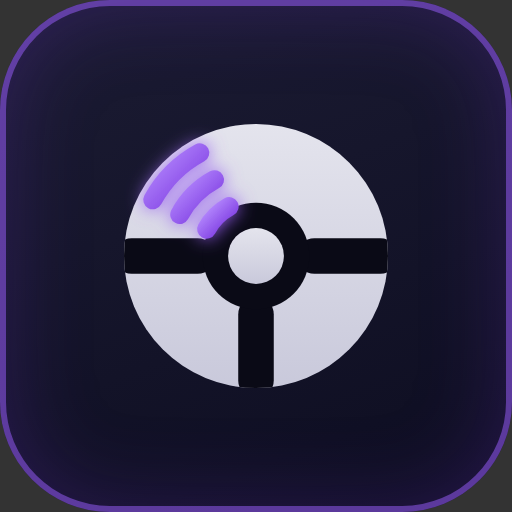
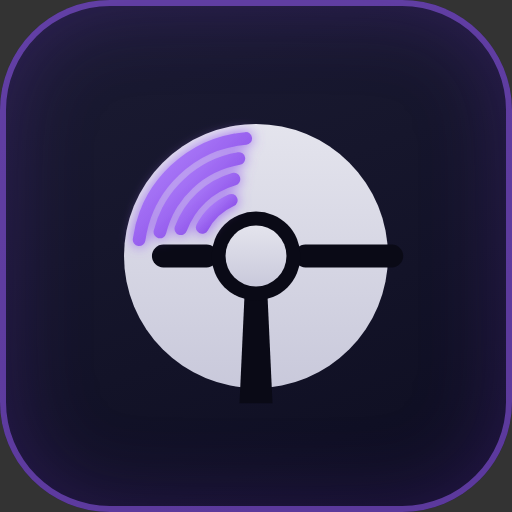
Promo kit v2: mark redrawn to the new reference, After Hours equalizer shot added
Claude-Session: https://claude.ai/code/session_01QfXMCYhSHowDeZKzYgKa2H

Changed region(s): [[0.2188, 0.25, 0.75, 0.75]]

diff --git a/store-assets/compose.html b/store-assets/compose.html
@@ -88,6 +88,13 @@
 <!-- Reusable mark: disc + steering spokes + violet sound arcs -->
 <script>
 function markSVG(size){
+  // Sweeping sound-arc: from lower-left round to the top, like the reference.
+  const A = (r, a1, a2) => {
+    const d = x => x * Math.PI / 180;
+    const x1 = (r * Math.cos(d(a1))).toFixed(1), y1 = (r * Math.sin(d(a1))).toFixed(1);
+    const x2 = (r * Math.cos(d(a2))).toFixed(1), y2 = (r * Math.sin(d(a2))).toFixed(1);
+    return `M ${x1} ${y1} A ${r} ${r} 0 0 1 ${x2} ${y2}`;
+  };
   return `
   <svg width="${size}" height="${size}" viewBox="-130 -130 260 260" xmlns="http://www.w3.org/2000/svg">
     <defs>
@@ -98,23 +105,23 @@ function markSVG(size){
         <stop offset="0" stop-color="#B78CFF"/><stop offset="1" stop-color="#7B38E0"/>
       </linearGradient>
       <filter id="glow" x="-60%" y="-60%" width="220%" height="220%">
-        <feGaussianBlur stdDeviation="7" result="b"/>
+        <feGaussianBlur stdDeviation="5" result="b"/>
         <feMerge><feMergeNode in="b"/><feMergeNode in="SourceGraphic"/></feMerge>
       </filter>
-      <clipPath id="discClip"><circle r="104"/></clipPath>
     </defs>
     <circle r="104" fill="url(#disc)"/>
-    <g clip-path="url(#discClip)">
-      <rect x="-112" y="-14" width="80" height="28" rx="14" fill="#0a0a16"/>
-      <rect x="32"  y="-14" width="80" height="28" rx="14" fill="#0a0a16"/>
-      <rect x="-14" y="32"  width="28" height="80" rx="14" fill="#0a0a16"/>
-    </g>
-    <circle r="42" fill="#0a0a16"/>
-    <circle r="22" fill="url(#disc)"/>
-    <g filter="url(#glow)" stroke="url(#arc)" stroke-width="15" stroke-linecap="round" fill="none">
-      <path d="M -38.9 -21.2 A 44.3 44.3 0 0 1 -21.2 -38.9"/>
-      <path d="M -60.1 -32.7 A 68.4 68.4 0 0 1 -32.7 -60.1"/>
-      <path d="M -81.3 -44.3 A 92.5 92.5 0 0 1 -44.3 -81.3"/>
+    <!-- steering cutouts: left bar ends inside; right bar and bottom stem
+         break through the rim, exactly like the reference -->
+    <rect x="-82" y="-9" width="52" height="18" rx="9" fill="#0a0a16"/>
+    <rect x="30"  y="-9" width="86" height="18" rx="9" fill="#0a0a16"/>
+    <path d="M -9 30 L 9 30 L 13 116 L -13 116 Z" fill="#0a0a16"/>
+    <circle r="35" fill="#0a0a16"/>
+    <circle r="24" fill="url(#disc)"/>
+    <g filter="url(#glow)" stroke="url(#arc)" stroke-width="10" stroke-linecap="round" fill="none">
+      <path d="${A(48, 208, 246)}"/>
+      <path d="${A(63, 200, 254)}"/>
+      <path d="${A(78, 194, 260)}"/>
+      <path d="${A(93, 188, 265)}"/>
     </g>
   </svg>`;
 }
@@ -172,6 +179,12 @@ function markSVG(size){
   <div class="cap">Drag the dial.<br><span class="hl">Find the mood.</span></div>
   <div class="brandrow"><span class="mark" data-size="44"></span><span class="bw">Cruise<i>FM</i></span></div>
   <div class="phone"><img src="raw-tuner.png"></div>
+</div>
+
+<div class="canvas shot" id="shot-6-afterhours">
+  <div class="cap" style="font-size:66px">When the world sleeps,<br><span style="color:#FF5A5A">the road is yours.</span></div>
+  <div class="brandrow"><span class="mark" data-size="44"></span><span class="bw">Cruise<i>FM</i></span></div>
+  <div class="phone"><img src="raw-afterhours.png"></div>
 </div>
 
 <script>
